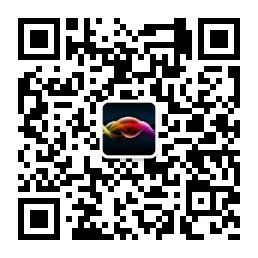
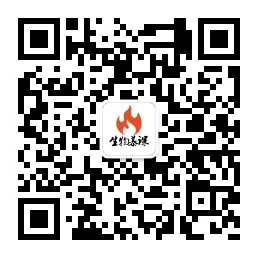
v0.2.1-2 设计火焰形logo,更新微信、ico等

Changed region(s): [[0.3721, 0.3721, 0.6202, 0.6202]]

diff --git a/index.html b/index.html
@@ -10,7 +10,7 @@
 <meta name="keywords" content="w3cschool,HTML,CSS,PHP,DOM,JavaScript,jQuery,XML,AJAX,ASP.NET,W3C,MySQL,SQL,jquery mobile,bootstrap,Python,jquery easyui,jquery ui,angularjs">
 <meta name="description" content="生物慕课网(www.biomooc.com)提供了最全的编程技术基础教程, 介绍了Javascript、Linux、Python，Java，C，PHP , MySQL等各种编程语言的基础知识。 同时本站中也提供了大量的实例，通过实例，您可以更好的学习编程。..">
 		
-	<link rel="shortcut icon" href="//images/favicon.ico" mce_href="//images/favicon.ico" type="image/x-icon" >
+	<link rel="shortcut icon" href="/img/favicon.ico" mce_href="//img/favicon.ico" type="image/x-icon" >
 	<link rel="stylesheet" href="/wp-content/themes/biomooc/style.css?v=1.141" type="text/css" media="all" />	
 	<link rel="stylesheet" href="//cdn.bootcss.com/font-awesome/4.7.0/css/font-awesome.min.css" media="all" />	
   <!--[if gte IE 9]><!-->
@@ -20,7 +20,7 @@
      <script src="//cdn.bootcss.com/jquery/1.9.1/jquery.min.js"></script>
      <script src="//cdn.bootcss.com/html5shiv/r29/html5.min.js"></script>
   <![endif]-->
-  <link rel="apple-touch-icon" href="//images/mobile-icon.png"/>
+  <link rel="apple-touch-icon" href="/img/mobile-icon.png"/>
   <meta name="apple-mobile-web-app-title" content="生物慕课网">
 </head>
 <body>
@@ -577,6 +577,7 @@
 <div id="footer" class="mar-t50">
    <div class="biomooc-block">
     <div class="biomooc cf">
+	
      <dl>
       <dt>
        在线实例
@@ -601,8 +602,12 @@
       </dd>
      
      </dl>
-	 
-     
+
+
+
+
+
+
      <dl>
       <dt>
        最新更新
@@ -615,10 +620,32 @@
        &middot;
       <a href="http://www.biomooc.com/R/ggplot2.html" title="ggplot2">ggplot2入门到精通...</a>
       </dd>
-             </dl>
-			 
-			 
-			 
+     </dl>
+
+
+
+
+
+
+     <dl>
+      <dt>友情链接</dt>
+        <dd>&middot;
+			<a target="_blank" href="http://www.biotrainee.com" title="帮助每一位生信人构建最完善的生信技能树... 微信公众号biotrainee">生信技能树</a>
+        </dd>
+		<dd>&middot;
+			<a target="_blank" href="http://www.bio-info-trainee.com/" title="生信博客">生信菜鸟团</a>
+        </dd>
+		<dd>&middot;
+			<a target="_blank" href="https://www.imooc.com" title="程序员的梦工厂">慕课网</a>
+        </dd>
+
+     </dl>
+
+
+
+
+
+		 
      <dl>
       <dt>
        站点信息

diff --git a/index2.html b/index2.html
@@ -19,7 +19,7 @@
 <body>
 <!-- header.html start -->
 <div class="header clearfix">
-    <span class="logo"><a href="http://www.biomooc.com/"><img src="img/logo.gif" width="68" height="36" alt="生物慕课" /></a></span><h1>生信导航</h1>
+    <span class="logo"><a href="http://www.biomooc.com/"><img src="img/logo.png" height="36" alt="生物慕课" /></a></span><h1>生信导航</h1>
     <span class="nav cDGray"><a href="http://www.biomooc.com/">生物慕课首页</a> | <a href="http://www.youdao.com/">有道词典</a></span>
 </div>
 <!-- header.html end -->
